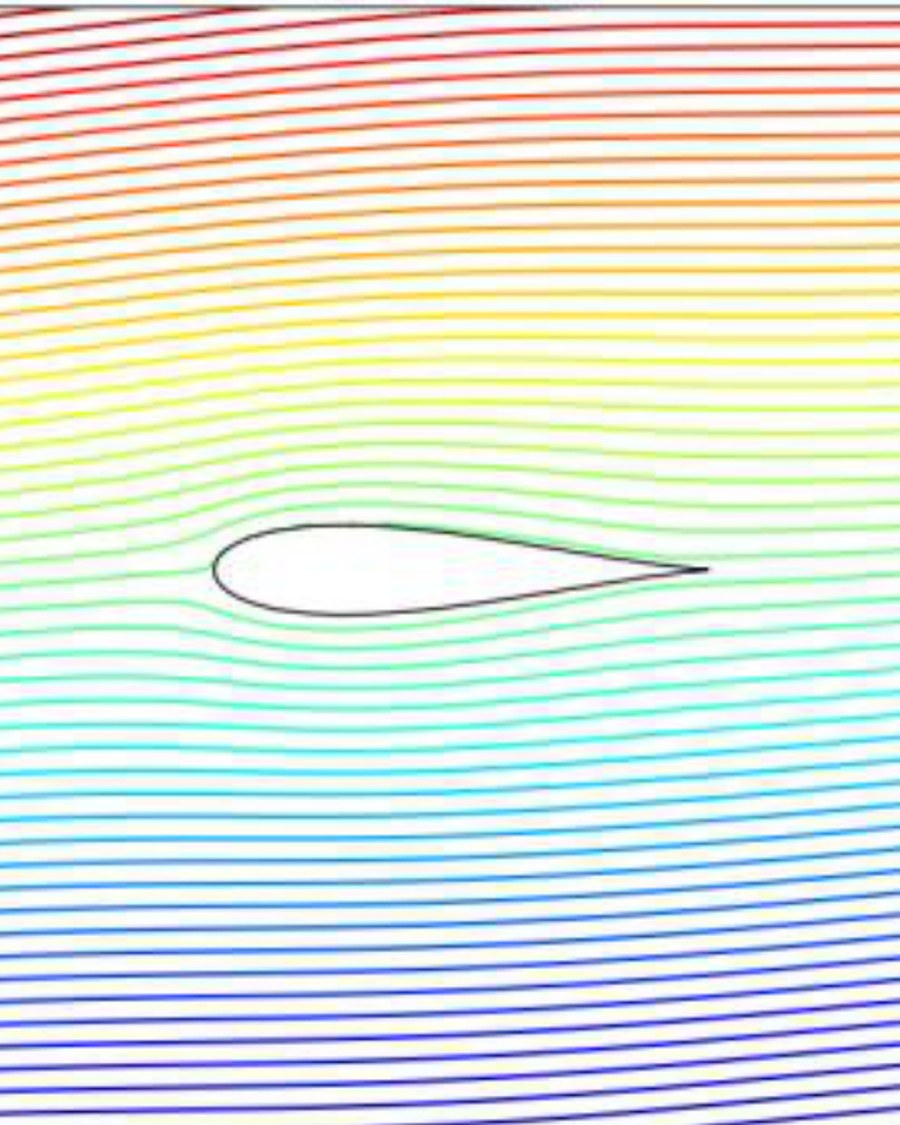
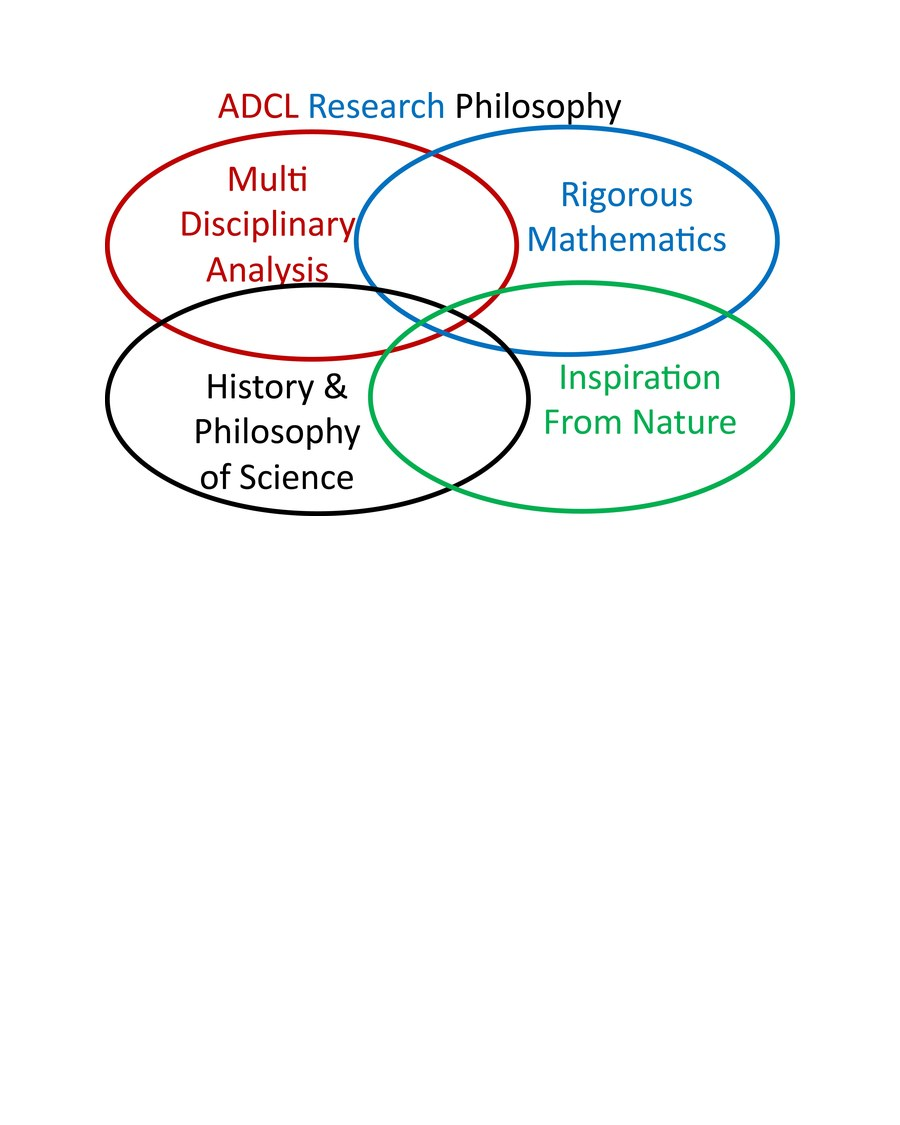
Link the lab from the research page title, swap the tile image
The tile now carries the ADCL research philosophy diagram. It is landscape
and made of words, so a 4:5 crop would have cut labels off both sides; it is
fitted whole instead, composed into the upper half so the always-visible
caption is not sitting on the diagram's own text.

diff --git a/index.html b/index.html
@@ -62,7 +62,7 @@
       </a>
 
       <a class="tile tile--light-media" href="pinn-research.html">
-        <img src="images/pinn-research.jpg" alt="Streamlines of the physics-informed neural network solution flowing around an airfoil">
+        <img src="images/pinn-research.jpg" alt="The ADCL research philosophy diagram: overlapping circles for multidisciplinary analysis, rigorous mathematics, history and philosophy of science, and inspiration from nature">
         <span class="tile-caption">
           <span class="tile-title">UC Irvine Aeronautics, Dynamics, and Control Lab</span>
           <span class="tile-meta">Physics-Informed Neural Networks</span>

diff --git a/style.css b/style.css
@@ -369,6 +369,21 @@ h2 {
   margin: 0 0 20px;
 }
 
+/* A linked heading should still read as a heading, so the underline stays
+   faint until the pointer is on it. */
+.title-link {
+  color: inherit;
+  text-decoration: none;
+  border-bottom: 2px solid rgba(192, 92, 53, 0.28);
+  transition: color 0.2s ease, border-color 0.2s ease;
+}
+
+.title-link:hover,
+.title-link:focus-visible {
+  color: var(--terracotta);
+  border-bottom-color: var(--terracotta);
+}
+
 .project-meta a {
   color: inherit;
   text-decoration: none;

diff --git a/pinn-research.html b/pinn-research.html
@@ -39,7 +39,7 @@
   <main class="page">
 
     <div class="project-header">
-      <h1>UC Irvine Aeronautics, Dynamics, and Control Lab</h1>
+      <h1><a class="title-link" href="https://taha.eng.uci.edu/LabResources.html" target="_blank" rel="noopener">UC Irvine Aeronautics, Dynamics, and Control Lab</a></h1>
       <p class="project-meta">Undergraduate Research Assistant · March 2025 – June 2026</p>
       <dl class="people">
         <dt>Principal Investigator</dt>
